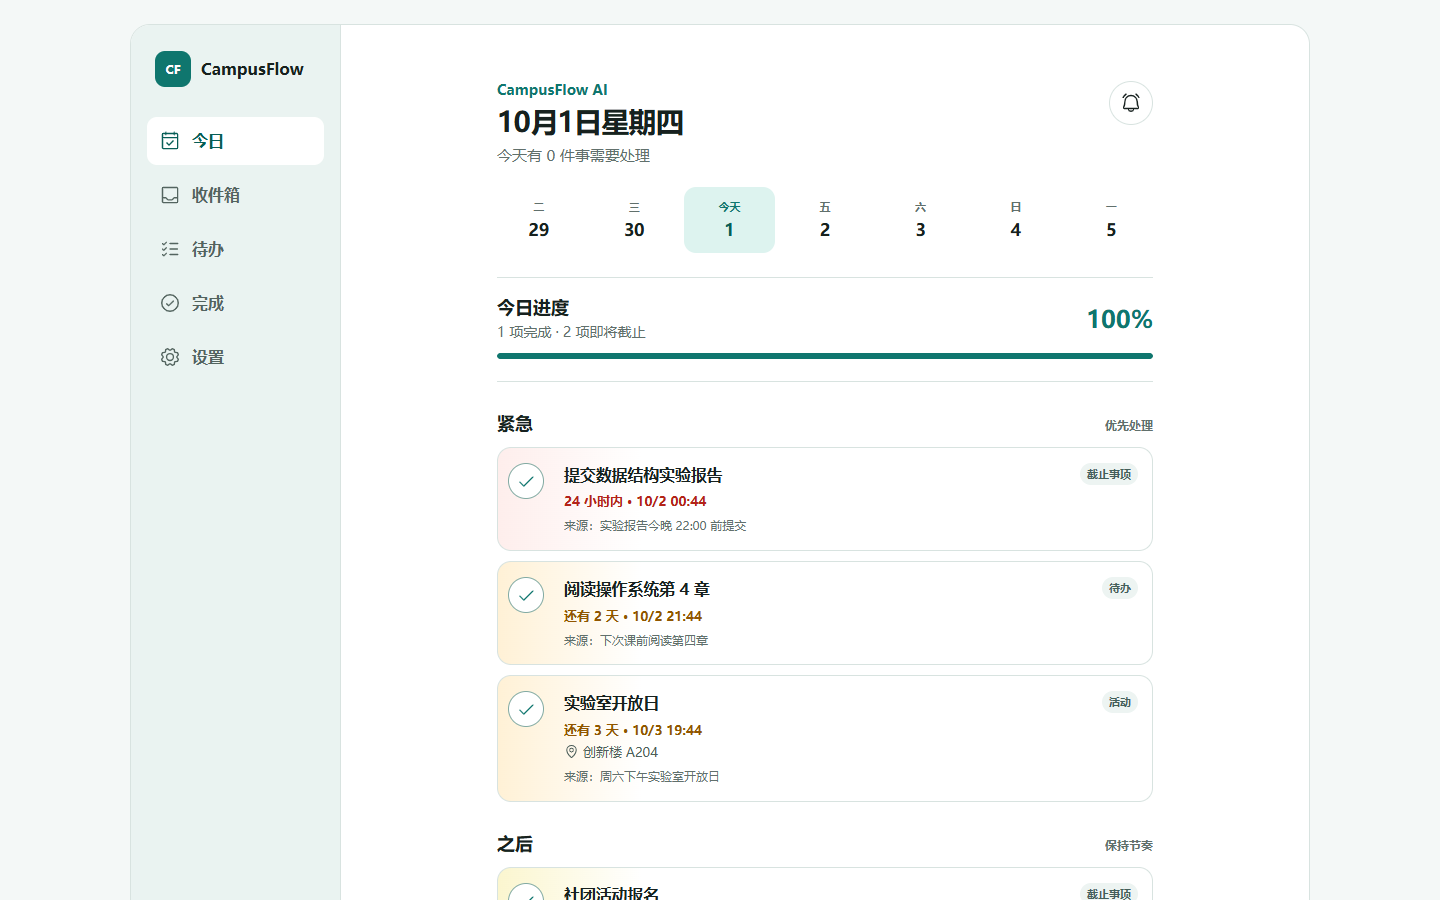
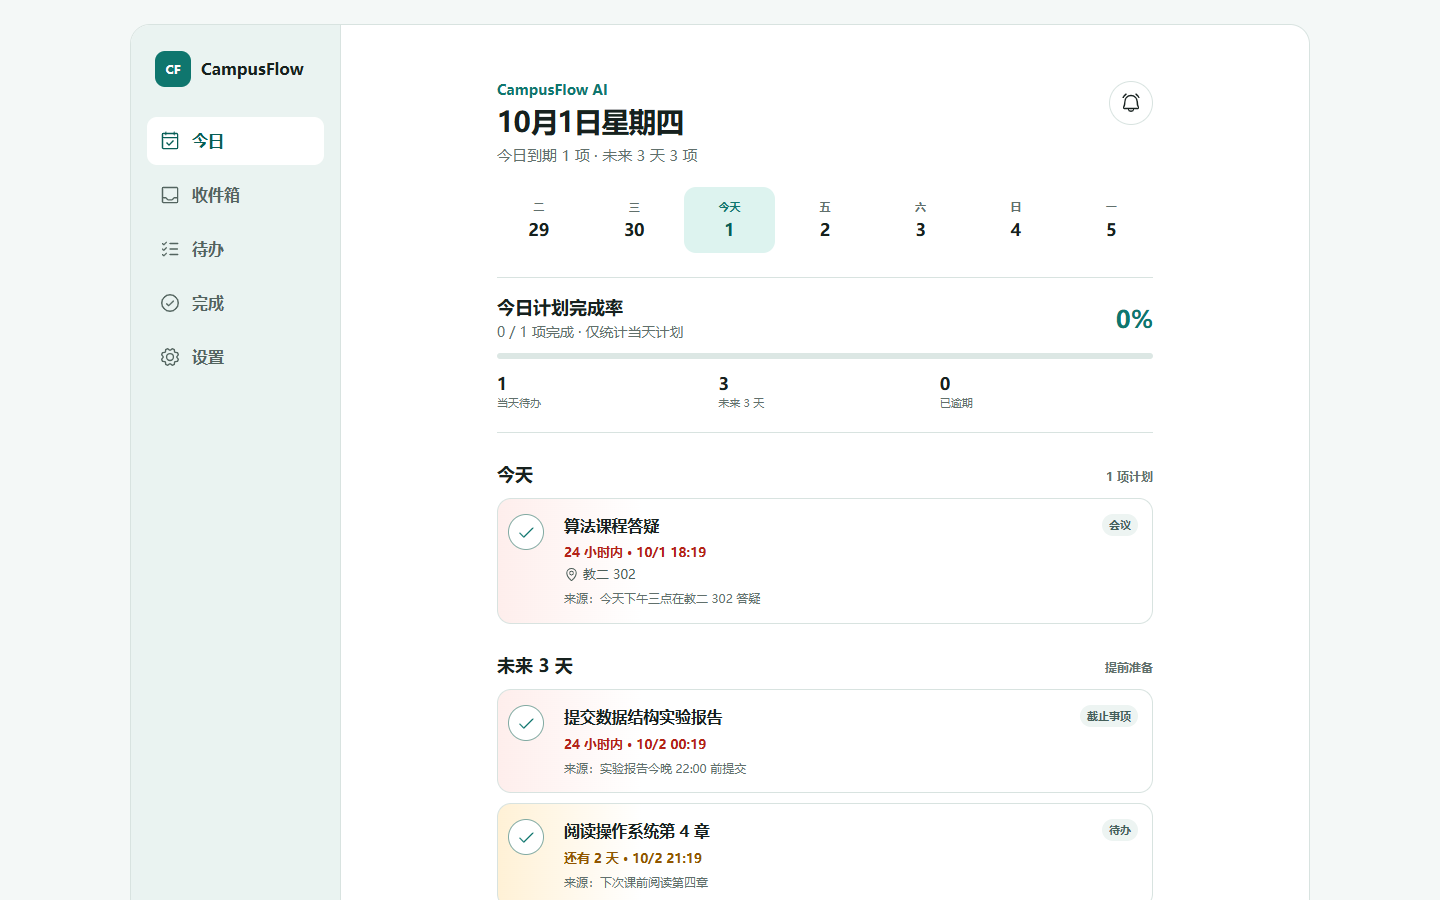
docs: record final verification evidence

diff --git a/README.md b/README.md
@@ -47,7 +47,7 @@ flowchart LR
     <td align="center"><strong>截图 OCR</strong><br><img src="docs/images/inbox-image.png" width="330" alt="上传通知截图并编辑 OCR 文字"></td>
   </tr>
   <tr>
-    <td align="center"><strong>AI Review</strong><br><img src="docs/images/ai-review.png" width="330" alt="检查和编辑 AI 提取的行动项"></td>
+    <td align="center"><strong>AI Review</strong><br><img src="docs/images/ai-review.png" width="330" alt="检查和编辑结构化行动项"><br><sub>合成课程通知用于展示确认交互</sub></td>
     <td align="center"><strong>待办日程</strong><br><img src="docs/images/tasks-mobile.png" width="330" alt="按日期分组的任务列表"></td>
   </tr>
 </table>
@@ -59,6 +59,17 @@ flowchart LR
 应用使用 `@earendil-works/pi-ai` 的 OpenAI provider、模型目录和 OAuth abstraction。设置页启动 **Continue with ChatGPT**，授权在 OpenAI 页面完成；服务端保存 OAuth credential，浏览器 JavaScript、业务表、日志和 Git 均不会接收 Token。
 
 每次提取都会向模型传入当前本地时间和时区。模型通过约束工具返回 `task | deadline | meeting | event`，并保留原始时间文字、来源摘录与置信度。不确定日期保持为空，最终写库由用户确认决定。
+
+### AI 工作流验证
+
+| 环节 | 状态 | 证据 |
+|---|---|---|
+| OpenAI 授权页与本地回调 | 已验证 | 两次真实浏览器授权均完成回调 |
+| OAuth Token 交换 | 当前受阻 | OpenAI 端返回 HTTP 403，未生成本地 credential |
+| Structured Output 契约 | 已验证 | TypeBox Schema 与异常路径自动化测试 |
+| Review、确认保存与持久化 | 已验证 | 浏览器流程测试与 SQLite 重启读取 |
+
+实时模型调用将在 OpenAI 为当前账号与环境开放 Token 交换后复验；仓库不以合成结果冒充真实模型响应。
 
 ## 技术架构
 

diff --git a/docs/development/phase-02-core-loop.md b/docs/development/phase-02-core-loop.md
@@ -29,6 +29,12 @@
 5. **生产 Service Worker 返回 HTML MIME**  
    SPA catch-all 接管了 `/sw.js`，导致注册失败。为 Service Worker 增加显式静态路由后，生产页面控制台恢复为 0 error。
 
+6. **ChatGPT 授权回调成功，但 Token 交换返回 HTTP 403**
+   2026-10-01 使用真实账号完成两次 OpenAI 浏览器授权，本地 callback 均显示成功；Pi AI 随后的 Token 请求均收到 HTTP 403，因此没有生成 `.local/auth.json`，也没有进行实时模型调用。已确认 npm 最新版仍为 `@earendil-works/pi-ai@0.99.2`，并保留安全的状态码级错误提示，不记录授权码或 Token。该现象与 Pi 的[动态客户端可用性问题](https://github.com/earendil-works/pi/issues/10184)及 OpenAI Codex 的[区域 / 网络导致 Token 交换 403](https://github.com/openai/codex/issues/37682)报告一致；在服务端开放前不切换非指定 provider，也不伪造连接状态。
+
+7. **Today 统计口径造成 0 件待办与 100% 并存**
+   原实现把不同时间范围的任务混入同一摘要，未来截止事项与今日进度含义不一致。摘要现拆分为“今日到期、未来 3 天、已逾期”，完成率只统计当天计划；无当天计划时显示 `—`，避免暗示已全部完成。
+
 ## 验证
 
 - Vitest：35 tests passed
@@ -36,3 +42,6 @@
 - TypeScript：strict + no-unused checks passed
 - Vite production build：passed
 - 实机视口：390×844、430×932、1440×900
+- SQLite 写入后重启读取：passed
+- OpenAI 浏览器授权 / callback：passed
+- OpenAI Token 交换：blocked（HTTP 403；无 credential 写入）
